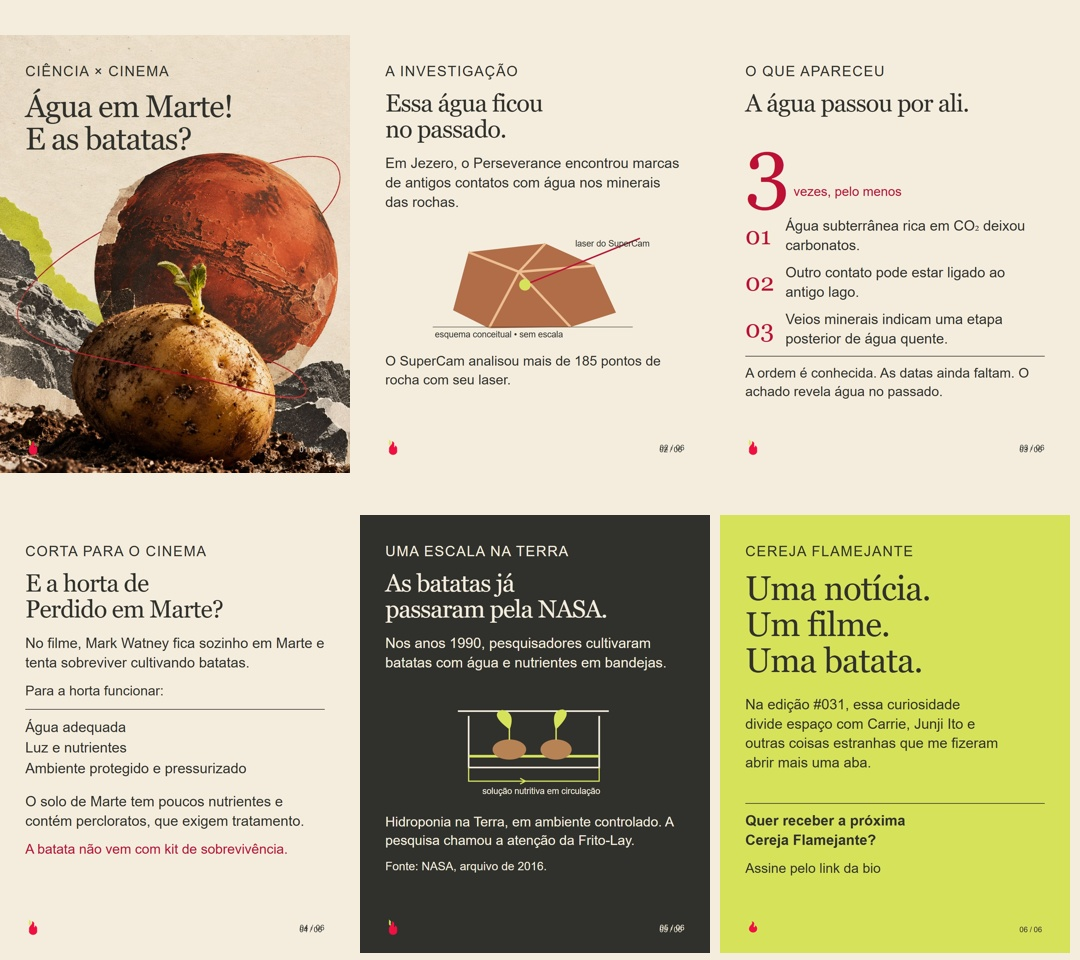
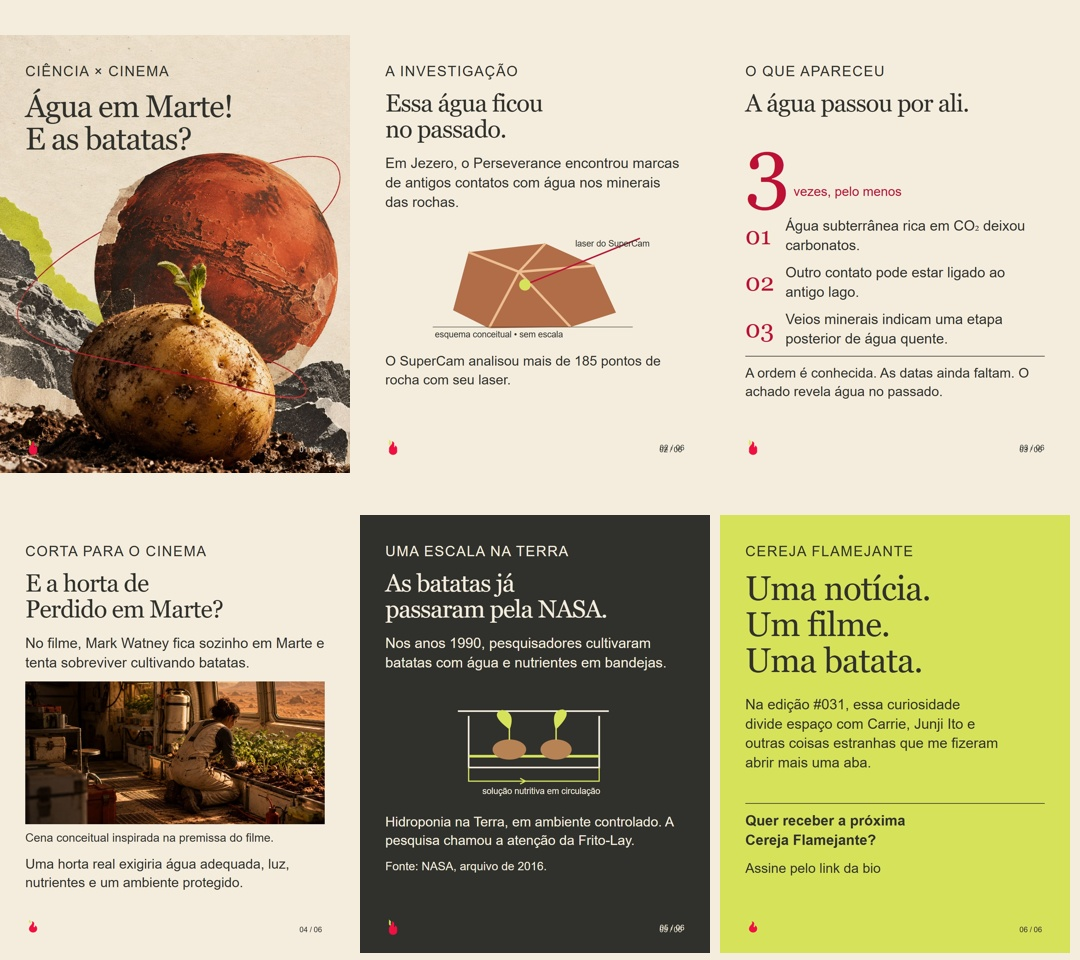
Add original conceptual greenhouse photograph to film context slide

Changed region(s): [[0.0, 0.6875, 0.3056, 0.9375]]

diff --git a/growth/cycles/031-mars/slide-04.html b/growth/cycles/031-mars/slide-04.html
@@ -1,1 +1,1 @@
-<!doctype html><html lang="pt-BR"><meta charset="utf-8"><title>Marte e batatas · 4</title><link rel="stylesheet" href="style.css"><main class="slide "><p class="eyebrow">Corta para o cinema</p><h2>E a horta de<br>Perdido em Marte?</h2><p>No filme, Mark Watney fica sozinho em Marte e tenta sobreviver cultivando batatas.</p><p class="small">Para a horta funcionar:</p><div class="list line">Água adequada<br>Luz e nutrientes<br>Ambiente protegido e pressurizado</div><p style="margin-top:40px">O solo de Marte tem poucos nutrientes e contém percloratos, que exigem tratamento.</p><p class="small cherry">A batata não vem com kit de sobrevivência.</p><footer class="foot"><img src="assets/flame.png" alt="Cereja Flamejante"><span>04 / 06</span></footer></main></html>
+<!doctype html><html lang="pt-BR"><meta charset="utf-8"><title>Marte e batatas · 4</title><link rel="stylesheet" href="style.css"><main class="slide"><p class="eyebrow">Corta para o cinema</p><h2>E a horta de<br>Perdido em Marte?</h2><p>No filme, Mark Watney fica sozinho em Marte e tenta sobreviver cultivando batatas.</p><img src="assets/mars-greenhouse-concept.png" alt="Cena conceitual de cultivo em um habitat marciano" style="width:924px;height:440px;object-fit:cover;display:block;margin:28px 0 18px"><p class="source">Cena conceitual inspirada na premissa do filme.</p><p class="small">Uma horta real exigiria água adequada, luz, nutrientes e um ambiente protegido.</p><footer class="foot"><img src="assets/flame.png" alt="Cereja Flamejante"><span>04 / 06</span></footer></main></html>

diff --git a/growth/cycles/031-mars/packet.md b/growth/cycles/031-mars/packet.md
@@ -74,3 +74,5 @@ Contexto do filme incluído na página 4. Fonte oficial: https://www.20thcentury
 Decisão de formato: carrossel entrega contexto curto e achado; legenda concentra explicação adicional e fontes. Alt text permanece descrição acessível de cada página, não substitui legenda.
 
 Regra de CTA aprovada por Kell: nas peças e legendas, usar convite empático e contextual. Infinitivo reservado ao texto de botão neste projeto. Slide final: Quer receber a próxima Cereja Flamejante? Assine pelo link da bio.
+
+Novo ativo: assets/mars-greenhouse-concept.png, cena conceitual original inspirada na premissa de cultivo para sobrevivência. Ferramenta integrada de imagem. Não é frame nem representação de Matt Damon, nem diagrama agronômico: plantas e tubérculos compõem uma cena fictícia. Direitos de imagens do filme continuam pendentes; nenhuma delas foi reproduzida.
